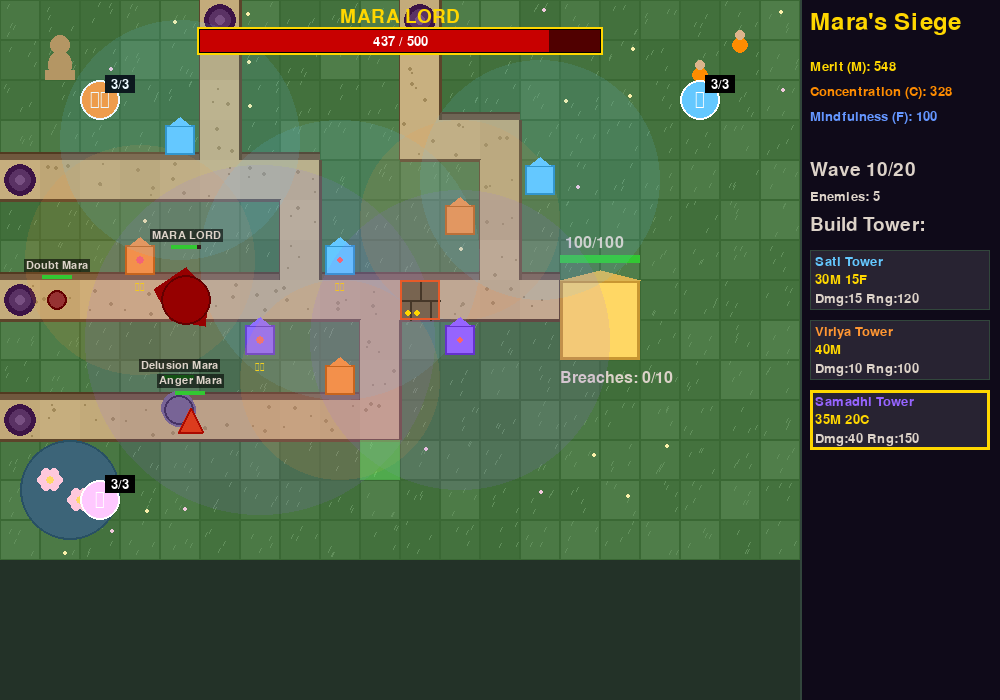
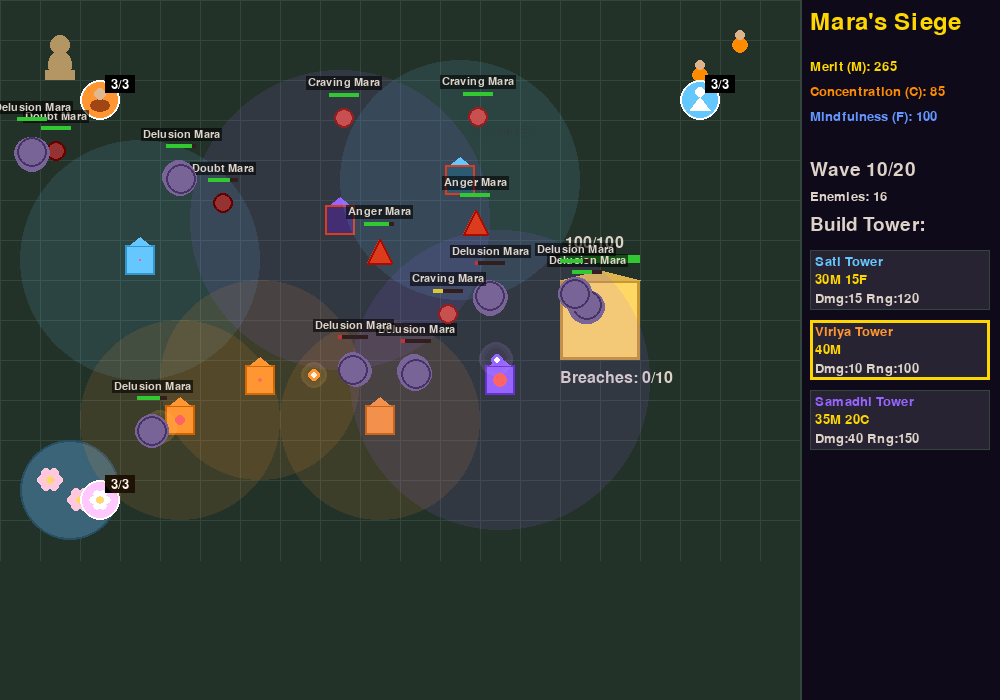
docs(itch): show Open Field mode on the cover and README screenshot
- Open Field shows the crowd of Mara closing in on the temple more
  clearly, so it leads the store page and the repo front page.
- Both images are fresh wave 10 captures from the real game.

diff --git a/README.md b/README.md
@@ -6,7 +6,7 @@ A Buddhist-themed tower defense game made with Python and Pygame. You protect a 
 
 **[Download and play it free on itch.io](https://smoald.itch.io/mara-siege)** (Windows, no install needed).
 
-![Wave 10 on the Temple Garden map: towers on the grass terraces, an upgraded wall on the path, and the Mara Lord boss marching toward the temple](docs/screenshot.png)
+![Wave 10 in Open Field mode: towers built anywhere on the open grass while a crowd of Mara closes in on the temple](docs/screenshot.png)
 
 ## What I built and why
 
